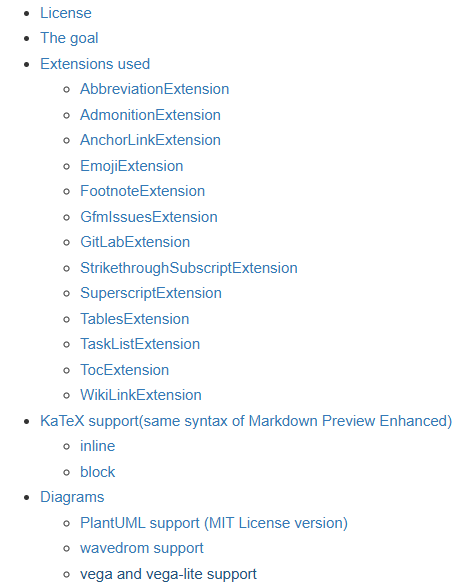
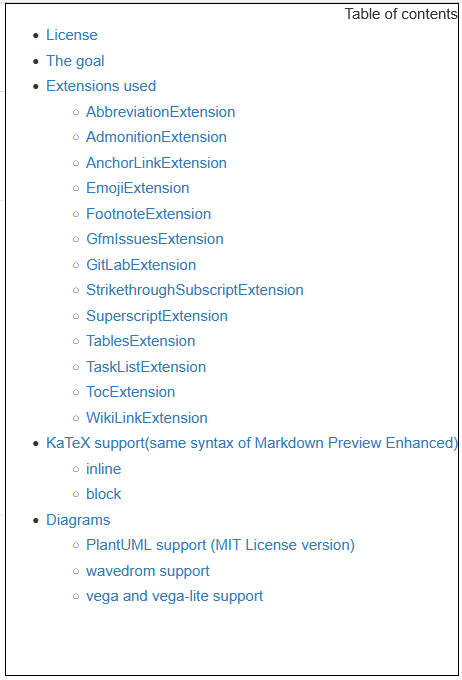
update about table contents

Changed region(s): [[0.0, 0.0, 1.0, 1.0], [0.5455, 0.7986, 0.7576, 0.8294]]

diff --git a/README.md b/README.md
@@ -27,7 +27,7 @@ Powered by [flexmark-java](https://github.com/vsch/flexmark-java)
   - [x] [GraphViz](https://shd101wyy.github.io/markdown-preview-enhanced/#/diagrams?id=graphviz)(0.5.1)
   - [x] [Vega and Vega-lite](https://shd101wyy.github.io/markdown-preview-enhanced/#/diagrams?id=vega-and-vega-lite)(0.6.0)(yaml is not supported)
   - [ ] [Kroki](https://shd101wyy.github.io/markdown-preview-enhanced/#/diagrams?id=kroki)
-- [x] [Table of Contents](https://shd101wyy.github.io/markdown-preview-enhanced/#/toc)(Sidebar not supported)
+- [x] [Table of Contents](https://shd101wyy.github.io/markdown-preview-enhanced/#/toc)
 - [ ] [File Imports](https://shd101wyy.github.io/markdown-preview-enhanced/#/file-imports)
 - [ ] [Code Chunk](https://shd101wyy.github.io/markdown-preview-enhanced/#/code-chunk)
 - [ ] [Presentation](https://shd101wyy.github.io/markdown-preview-enhanced/#/presentation)
@@ -176,6 +176,10 @@ to
 `[TOC]` create table of contents.
 
 ![](images/toc.png)
+
+You click `Table of contents` to closel table of contents.
+
+![](images/closed_toc.png)
 
 ### WikiLinkExtension
 
